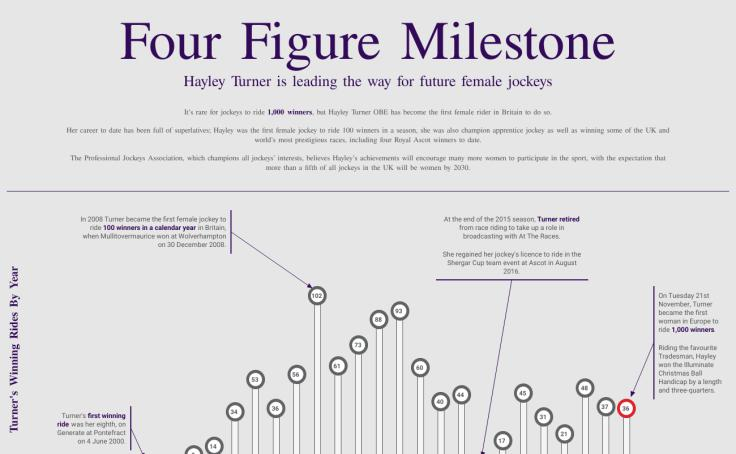
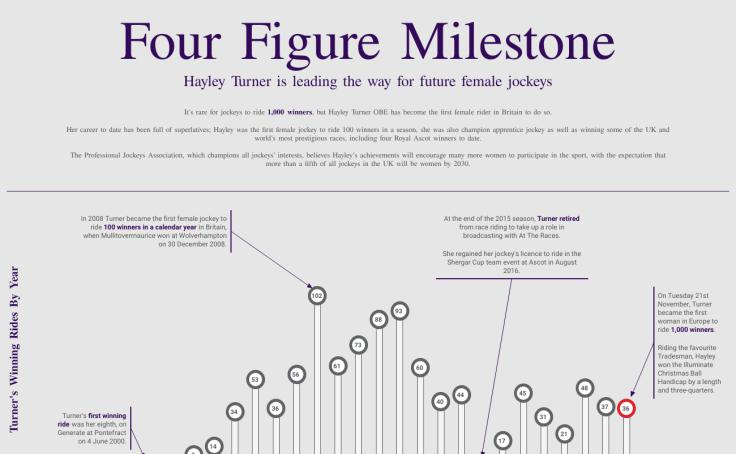
run updates

diff --git a/tools/fetch_tableau_carousel.py b/tools/fetch_tableau_carousel.py
@@ -15,6 +15,8 @@ from dataclasses import dataclass
 from pathlib import Path
 from typing import Any
 from urllib.parse import quote
+from PIL import Image
+from io import BytesIO
 
 import requests
 from slugify import slugify
@@ -100,7 +102,24 @@ def tableau_viz_url(profile_name: str, default_view_repo_url: str) -> str:
     return f"https://public.tableau.com/app/profile/{profile_name}/viz/{view_path}"
 
 
-def download_image(session: requests.Session, image_url: str, output_path: Path) -> None:
+#def download_image(session: requests.Session, image_url: str, output_path: Path) -> None:
+#    response = session.get(image_url, timeout=45)
+#    response.raise_for_status()
+
+#    content_type = response.headers.get("content-type", "")
+#    if "image" not in content_type.lower():
+#        raise ValueError(f"Expected an image from {image_url}, got content-type {content_type!r}")
+
+#    output_path.parent.mkdir(parents=True, exist_ok=True)
+#    output_path.write_bytes(response.content)
+
+def download_image(
+    session: requests.Session,
+    image_url: str,
+    output_path: Path,
+    *,
+    quality: int = 75,
+) -> None:
     response = session.get(image_url, timeout=45)
     response.raise_for_status()
 
@@ -109,8 +128,10 @@ def download_image(session: requests.Session, image_url: str, output_path: Path)
         raise ValueError(f"Expected an image from {image_url}, got content-type {content_type!r}")
 
     output_path.parent.mkdir(parents=True, exist_ok=True)
-    output_path.write_bytes(response.content)
 
+    img = Image.open(BytesIO(response.content))
+    img = img.convert("RGB")
+    img.save(output_path, "JPEG", quality=quality, optimize=True)
 
 def build_carousel(
     *,
@@ -121,6 +142,7 @@ def build_carousel(
     max_items: int | None,
     delay: float,
     dry_run: bool,
+    jpg_quality: int,
 ) -> list[CarouselItem]:
     session = requests.Session()
     session.headers.update({"User-Agent": "Mozilla/5.0 Tableau carousel builder"})
@@ -151,12 +173,14 @@ def build_carousel(
 
             image_url = tableau_thumbnail_url(workbook_repo_url, default_view_repo_url)
             href = tableau_viz_url(profile_name, default_view_repo_url)
-            filename = f"{order:03d}-{slugify(title) or 'tableau-viz'}.png"
+            #filename = f"{order:03d}-{slugify(title) or 'tableau-viz'}.png"
+            filename = f"{order:03d}-{slugify(title) or 'tableau-viz'}.jpg"
             image_output_path = output_dir / filename
 
             if not dry_run:
                 try:
-                    download_image(session, image_url, image_output_path)
+                    #download_image(session, image_url, image_output_path)
+                    download_image(session, image_url, image_output_path, quality=jpg_quality)
                 except Exception as exc:
                     print(f"Skipping {title!r}: could not download thumbnail: {exc}")
                     continue
@@ -201,20 +225,29 @@ def parse_args() -> argparse.Namespace:
     parser.add_argument("--max-items", type=int, default=None)
     parser.add_argument("--delay", type=float, default=0.4)
     parser.add_argument("--dry-run", action="store_true", help="Create manifest entries without downloading images.")
+    parser.add_argument("--jpg-quality", type=int, default=75)
     return parser.parse_args()
 
 
 def main() -> None:
     args = parse_args()
     authors = load_authors(args.authors_file)
+
+    # 👇 ADD THIS BLOCK
+    BASE_DIR = Path(__file__).resolve().parent.parent
+
+    output_dir = (BASE_DIR / args.output_dir).resolve()
+    manifest_path = (BASE_DIR / args.manifest).resolve()
+
     build_carousel(
         authors=authors,
-        output_dir=args.output_dir,
-        manifest_path=args.manifest,
+        output_dir=output_dir,
+        manifest_path=manifest_path,
         min_favourites=args.min_favourites,
         max_items=args.max_items,
         delay=args.delay,
         dry_run=args.dry_run,
+        jpg_quality=args.jpg_quality,
     )
 
 